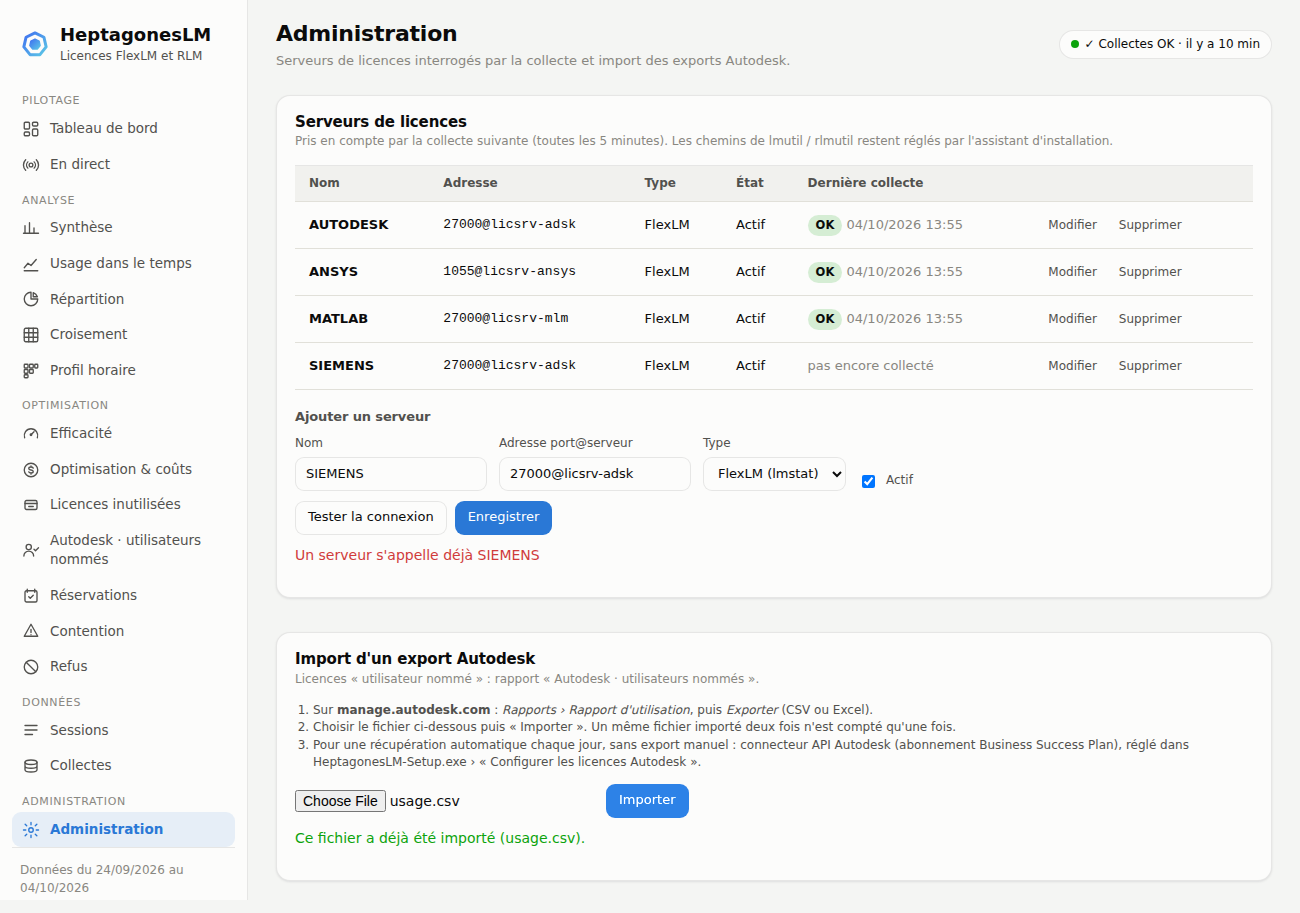
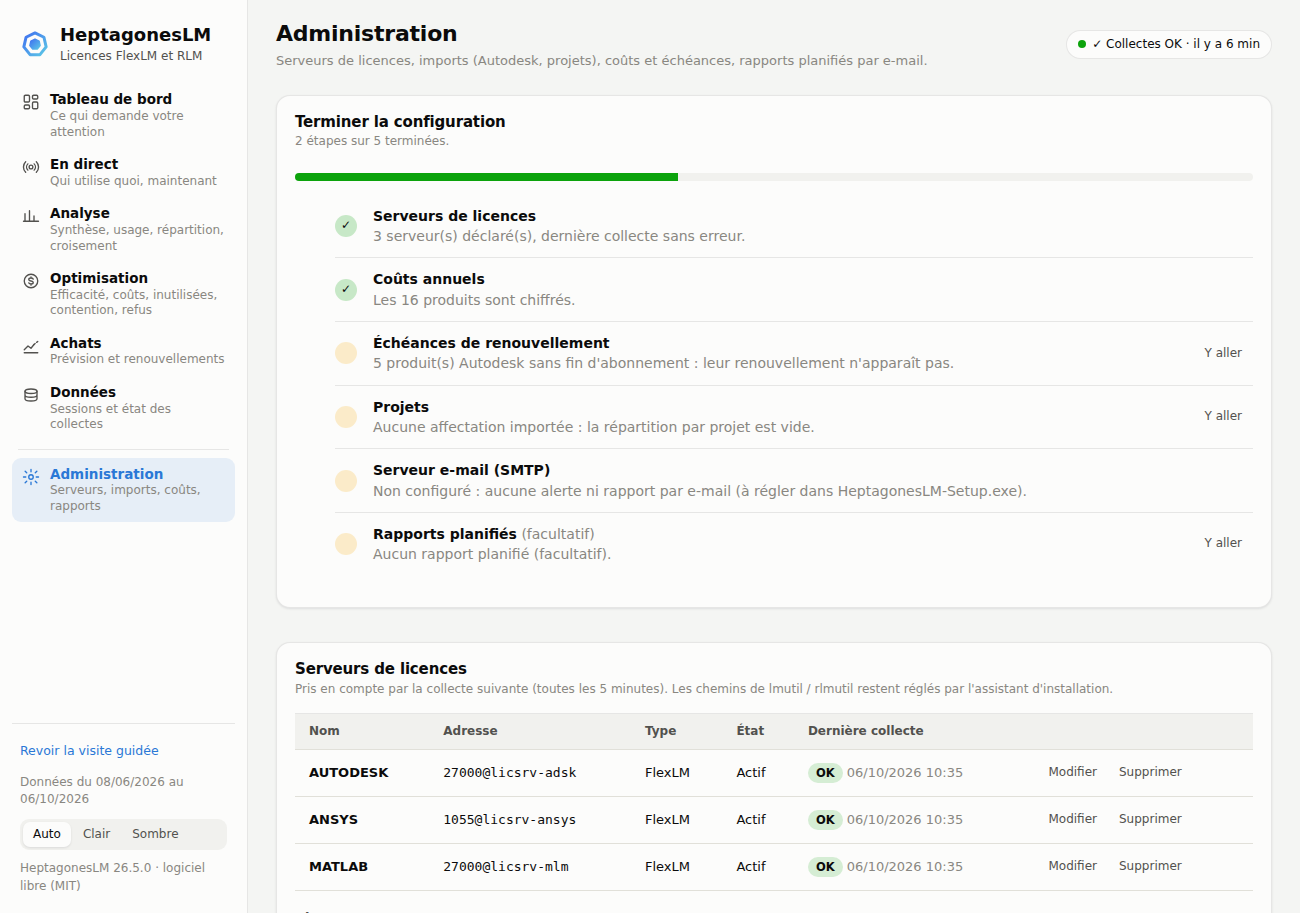
Documentation 26.5 : README, architecture, installation, plan de test ; captures de l'interface mises à jour

diff --git a/README.md b/README.md
@@ -16,9 +16,10 @@ Une alternative gratuite à OpenLM pour la mesure et l'optimisation des licences
 
 HeptagonesLM interroge périodiquement vos serveurs de licences (`lmutil lmstat`,
 `rlmutil rlmstat`) et lit leurs logs, historise la consommation dans SQL Server, puis restitue **qui utilise
-quoi, quand, avec quel taux d'occupation et quels pics de contention**, dans une
-tableau de bord web et en exports Excel — avec alertes, vue en direct, efficacité des
-jetons, chiffrage des économies possibles et alertes immédiates par e-mail.
+quoi, quand, avec quel taux d'occupation et quels pics de contention**, dans un
+tableau de bord web et en exports Excel — avec vue en direct, efficacité des jetons,
+chiffrage des économies, prévision des besoins, préparation des renouvellements et
+alertes immédiates par e-mail ou ticket ITSM.
 
 ![Tableau de bord](docs/images/tableau-de-bord.png)
 
@@ -41,12 +42,14 @@ jetons, chiffrage des économies possibles et alertes immédiates par e-mail.
 |---|---|
 | **Collecte** | FlexLM : sondage `lmutil lmstat -a` (jetons émis/utilisés, checkouts en cours) et lecture incrémentale des logs debug (refus, sessions à la seconde). RLM : sondage `rlmutil rlmstat -a` (pools, jetons, utilisateurs, échéances). Aucun agent sur les postes clients. |
 | **Historisation** | SQL Server (ou SQLite pour les essais) : sessions, refus, sondages, agrégats horaires conservés sans limite, journal des collectes. |
+| **Prise en main** | Navigation en 6 rubriques avec onglets, accueil **« À traiter »** (pénuries, économies, échéances, chacune avec son bouton), **visite guidée** à la première connexion selon le rôle, aide intégrée (définition des termes au survol, pages vides expliquées), **liste de démarrage** de l'administrateur. |
 | **Tableau de bord** | Alertes (collecte en échec ou arrêtée, refus, licences qui expirent, saturation, sous-utilisation), 6 indicateurs clés comparés à la période précédente avec tendance, occupation, état en direct, top produits et utilisateurs, refus, profil horaire, serveurs et échéances. |
 | **En direct** | Jetons utilisés / disponibles par produit et qui les utilise, depuis quand, sur quel poste ; actualisé chaque minute. |
 | **Optimisation** | Efficacité des jetons (part du temps où au moins N jetons sont utilisés), nombre de jetons recommandé, coût annuel du parc, économies potentielles, refacturation par service et **par projet**, **licences inutilisées** (coût à résilier), **réservations** (utilisateurs nommés) et leur taux d'usage réel. |
 | **Achats** | **Prévision** du pic et des jetons nécessaires à 3, 6 et 12 mois (tendance, saisonnalité, fourchette à 90 %) et **rapport de renouvellement** : pour chaque échéance, usage réel, quantité à renouveler, économie ou budget chiffrés. |
 | **Autodesk nominatif** | Licences Autodesk « utilisateur nommé » (sans serveur de licences) : usage lu par l'API Autodesk (Business Success Plan) ou import des exports « Usage report » du portail Autodesk Account, licences inactives ou jamais utilisées à réaffecter, coût annuel récupérable. |
 | **Emprunts et sites** | Licences empruntées (utilisation hors ligne) signalées dans la vue En direct et les sessions ; site de chaque poste (règles sur le nom), filtre et répartition par site. |
+| **Administration web** | Pour les administrateurs : serveurs de licences (ajout, test en direct), import des exports Autodesk et des affectations par projet, coûts et échéances, rapports planifiés par e-mail ; configuration validée et sauvegardée avant chaque écriture. |
 | **Rapports** | 18 vues à la demande, filtres (période, serveurs, produits, utilisateurs, services), graphiques interactifs, mode clair / sombre, liens partageables. |
 | **Exports** | Chaque rapport en Excel (avec graphique), CSV (format Excel français) ou JSON ; classeur complet 8 onglets. |
 | **HeptagonesLM-Setup.exe** | **Seul fichier à télécharger.** Assistant d'installation graphique : prérequis et IIS installés automatiquement, tests de connexion, barre de progression, vérification finale ; mode silencieux. Il installe l'application (`HeptagonesLM.exe` : collecte, interface, rapports) dans `C:\HeptagonesLM`. Aucun Python requis ; rien à installer sur les postes utilisateurs (navigateur). |
@@ -91,22 +94,32 @@ jetons, chiffrage des économies possibles et alertes immédiates par e-mail.
 <td align="center"><em>Prévision : jetons nécessaires à 3, 6 et 12 mois</em></td>
 <td align="center"><em>Renouvellements : quantité à renouveler, économie chiffrée</em></td>
 </tr>
+<tr>
+<td><img src="docs/images/administration.png" alt="Administration et liste de démarrage"></td>
+<td><img src="docs/images/repartition-service.png" alt="Répartition par service"></td>
+</tr>
+<tr>
+<td align="center"><em>Administration : liste de démarrage et serveurs de licences</em></td>
+<td align="center"><em>Répartition et refacturation par service ou par projet</em></td>
+</tr>
 </table>
 
 ## Démarrage rapide
 
 ### Essayer sans rien installer (Windows)
 
-1. Télécharger **`HeptagonesLM-Setup.exe`** depuis la page [Releases](https://github.com/Valou94460/HEPTAGONES-LM/releases)
-   (ou, pour la dernière version de développement : onglet
-   [Actions](https://github.com/Valou94460/HEPTAGONES-LM/actions/workflows/ci.yml) › dernière exécution › artefact `HeptagonesLM-Setup`).
-2. Parcourir l'assistant **en simulation**, sans rien modifier sur le poste :
-   `HeptagonesLM-Setup.exe setup --simulate` (bandeau « Mode simulation » affiché).
+1. Télécharger **`HeptagonesLM-Setup.exe`** depuis la [dernière version publiée](https://github.com/Valou94460/HEPTAGONES-LM/releases/latest).
+2. Dans une invite de commandes, ouvrir l'**interface sur données fictives** (bandeau « Démonstration ») :
+   `HeptagonesLM-Setup.exe web --demo --open`
+3. Ou parcourir l'**assistant d'installation en simulation**, sans rien modifier sur le poste :
+   `HeptagonesLM-Setup.exe setup --simulate` (bandeau « Mode simulation »).
 
-L'interface sur données fictives (bandeau « Démonstration ») s'obtient avec Python, ci-dessous.
+Le Setup demande les droits administrateur à l'ouverture (il sert aussi à installer). Aucune de ces deux
+commandes n'installe quoi que ce soit.
 
-> Windows SmartScreen peut avertir au premier lancement (exécutable non signé) :
-> « Informations complémentaires » › « Exécuter quand même ».
+> Windows SmartScreen peut avertir au premier lancement (exécutable non encore signé) :
+> « Informations complémentaires » › « Exécuter quand même ». Pour vérifier le fichier :
+> `Get-FileHash HeptagonesLM-Setup.exe -Algorithm SHA256` doit correspondre à `SHA256SUMS`, publié avec la version.
 
 ### Construire HeptagonesLM-Setup.exe sur son PC (sans GitHub Actions)
 
@@ -227,32 +240,31 @@ Options globales : `-c heptagoneslm.yaml` (ou variable `HEPTAGONESLM_CONFIG`), `
 heptagoneslm -c heptagoneslm.yaml web --open
 ```
 
-Navigation par la barre latérale, en cinq groupes (plus *Administration* pour les administrateurs) :
+La barre latérale compte six rubriques (plus *Administration* pour les administrateurs) ; les vues
+d'une même rubrique sont des onglets :
 
-| Vue | Contenu |
+| Rubrique | Vues (onglets) |
 |---|---|
-| **Tableau de bord** | Page d'accueil : alertes, indicateurs clés cliquables (tendance, comparaison à la période précédente), taux d'occupation, état en direct, produits, utilisateurs, refus, profil horaire, serveurs et échéances |
-| **En direct** | Dernier sondage : jetons utilisés / libres par produit, utilisateurs connectés (poste, service, durée), file d'attente ; actualisation automatique |
-| Synthèse | Indicateurs clés, taux d'occupation par produit (moyen, au pic, heures ouvrées) |
-| Usage dans le temps | Pic / moyenne / taux par heure, jour, semaine ou mois |
-| Répartition | Heures par utilisateur, poste, service, produit, serveur, éditeur, site ou projet ; coût refacturé |
-| Croisement | Tableau croisé (utilisateur, poste, service ou projet) × produit |
-| Profil horaire | Carte de chaleur heure × jour de semaine |
-| Contention | Jours avec saturation des jetons et/ou refus |
-| Refus | Détail des refus (DENIED) issus des logs |
-| **Efficacité** | Part du temps ouvré où au moins N jetons sont utilisés ; jetons recommandés pour couvrir 95 % du temps, excédent, jetons jamais utilisés |
-| **Optimisation & coûts** | Coût annuel par produit, économies potentielles, coût par heure d'usage, recommandation (réduire, adapté, pénurie) |
-| **Prévision** | Pic prévu à 3, 6 et 12 mois par produit, jetons nécessaires, marge à 90 %, écart et impact budgétaire |
-| **Renouvellements** | Échéances des 12 mois à venir : usage réel, recommandé, besoin prévu, quantité à renouveler, économie ou budget |
-| Sessions | Données brutes filtrables |
-| Collectes | Journal et état de santé des collectes |
+| **Tableau de bord** | Accueil : bloc **« À traiter »** (pénuries, économies possibles, échéances proches), alertes, indicateurs clés cliquables comparés à la période précédente, taux d'occupation, état en direct, produits, utilisateurs, refus, profil horaire, serveurs et échéances |
+| **En direct** | Dernier sondage : jetons utilisés / libres par produit, utilisateurs connectés (poste, service, durée), emprunts ; actualisation chaque minute |
+| **Analyse** | Synthèse (taux d'occupation par produit) · Usage dans le temps (heure, jour, semaine, mois) · Répartition (utilisateur, poste, service, site, projet… et coût refacturé) · Croisement (× produit) · Profil horaire (heure × jour) |
+| **Optimisation** | Optimisation & coûts (économies potentielles, recommandation) · Efficacité (jetons nécessaires pour 95 % du temps ouvré) · Licences inutilisées · Autodesk utilisateurs nommés · Réservations · Contention · Refus |
+| **Achats** | Prévision (pic et jetons nécessaires à 3, 6 et 12 mois, impact budgétaire) · Renouvellements (échéances des 12 mois, quantité à renouveler, économie ou budget) |
+| **Données** | Sessions (données brutes filtrables) · Collectes (journal et état de santé) |
 
+- **Première connexion** : une visite guidée de 5 étapes, adaptée au rôle, présente l'interface ; elle
+  n'est proposée qu'une fois par utilisateur (mémorisé côté serveur) et se relance par « Revoir la visite
+  guidée ». L'administrateur dispose d'une **liste de démarrage** (serveurs, coûts, échéances, projets,
+  e-mail) dans *Administration* et sur le tableau de bord tant qu'elle n'est pas terminée.
+- **Aide intégrée** : un « ? » sur les en-têtes explique chaque terme (jeton, taux en heures ouvrées,
+  recommandé…) ; une page vide indique comment la remplir.
 - **Filtres** : période (7 j, 30 j, 90 j, mois, année… ou dates), serveurs, produits,
-  utilisateurs, services ; ils s'appliquent à toutes les vues.
+  utilisateurs, services, sites ; seuls ceux qui s'appliquent à la vue sont affichés.
   L'adresse de la page conserve les filtres : un lien partagé rouvre le même rapport.
 - **Exports** : bouton Excel / CSV / JSON sur chaque vue, avec les filtres appliqués ;
   « Rapport complet » produit le classeur 8 onglets.
-- **Sécurité** : lecture seule ; n'écoute que sur le poste local par défaut.
+- **Sécurité** : consultation en lecture seule ; seule la page *Administration* (administrateurs)
+  modifie la configuration. N'écoute que sur le poste local par défaut.
   Pour un accès réseau : **connexion avec les comptes Windows / AD** et HTTPS, voir
   [docs/AUTHENTIFICATION.md](docs/AUTHENTIFICATION.md).
 
@@ -413,7 +425,7 @@ automatiquement dans la sortie `lmstat` (alertes à 30 et 7 jours).
 | Tickets ITSM automatiques (ServiceNow, Jira, GLPI, webhook Teams / Slack) | ✅ | ✅ |
 | Rôles par service (groupes AD) | ✅ | ✅ |
 | Licences empruntées, réservations (named user), multi-sites, licences inutilisées | ✅ | ✅ |
-| Administration en ligne (configuration depuis l'interface) | ❌ | ✅ |
+| Administration en ligne (serveurs, imports, coûts, rapports planifiés) | ✅ | ✅ |
 | Libération de licences inactives (agent sur les postes) | ❌ | ✅ |
 | Licences SaaS / cloud, offre hébergée | ❌ | ✅ |
 | Autres gestionnaires (DSLS, Sentinel, LM-X… : plus de 70 chez OpenLM) | Extensible, à développer | ✅ |
@@ -430,6 +442,7 @@ Les écarts restants sont planifiés dans la [feuille de route](docs/ROADMAP.md)
 | [docs/ARCHITECTURE.md](docs/ARCHITECTURE.md) | Architecture, flux de collecte, schéma de base, ajout d'un gestionnaire (RLM…) |
 | [docs/AUTHENTIFICATION.md](docs/AUTHENTIFICATION.md) | Interface partagée : connexion AD (LDAPS), SSO via IIS, certificat HTTPS, service permanent |
 | [docs/SECURITE.md](docs/SECURITE.md) | Audit de sécurité, corrections, liste de contrôle de déploiement |
+| [SECURITY.md](SECURITY.md) | Signaler une vulnérabilité (signalement privé), versions maintenues |
 | [docs/PLAN_DE_TEST.md](docs/PLAN_DE_TEST.md) | Plan de test complet : automatisé, recette, validation sur serveurs réels |
 | [docs/ROADMAP.md](docs/ROADMAP.md) | **Feuille de route** : état réel face à OpenLM, lots 26.3 à 27.3 (ITSM, rôles, prévision, prise en main, langue, gestionnaires, agent poste, cloud) |
 | [docs/PLAN.md](docs/PLAN.md) | Plan d'implémentation (mise en service) |
@@ -441,16 +454,17 @@ Les écarts restants sont planifiés dans la [feuille de route](docs/ROADMAP.md)
 ```bash
 git clone https://github.com/Valou94460/HEPTAGONES-LM.git && cd HEPTAGONES-LM
 pip install -e ".[dev]"
-python -m pytest                     # ~90 tests, SQLite en mémoire, aucun serveur requis
+python -m pytest                     # ~380 tests, SQLite en mémoire, aucun serveur requis
 heptagoneslm web --demo --open             # interface sur données simulées
 ```
 
-La [CI](.github/workflows/ci.yml) exécute à chaque push : tests unitaires (Linux et
-Windows, Python 3.10 et 3.12), démonstration complète avec rapport Excel, test de
-l'interface et de la page de connexion dans un vrai navigateur (Playwright), démonstration contre un vrai
-SQL Server 2022, construction et vérification de `HeptagonesLM.exe`. Une étiquette
-`vX.Y.Z` publie automatiquement une [Release](https://github.com/Valou94460/HEPTAGONES-LM/releases)
-avec l'exécutable.
+La [CI](.github/workflows/ci.yml) exécute à chaque push : contrôle des secrets (gitleaks) sur tout
+l'historique, tests unitaires (Linux et Windows, Python 3.10 et 3.12), démonstration complète avec
+rapport Excel, test de l'interface, de la page de connexion et de l'assistant d'installation dans un vrai
+navigateur (Playwright), démonstration contre un vrai SQL Server 2022, construction de
+`HeptagonesLM-Setup.exe` et installation réelle sur Windows Server. Une étiquette `vX.Y.Z` publie
+automatiquement une [Release](https://github.com/Valou94460/HEPTAGONES-LM/releases) avec le Setup,
+le paquet zip et les empreintes SHA-256.
 
 ## Licence
 

diff --git a/docs/ARCHITECTURE.md b/docs/ARCHITECTURE.md
@@ -38,32 +38,44 @@ flowchart LR
 
 ```
 heptagoneslm/
-├── cli.py                  Point d'entrée (init-db, collect, report, import-log, purge…)
+├── cli.py                  Point d'entrée (init-db, collect, report, web, setup, import-*, purge…)
+├── launcher.py             HeptagonesLM.exe / HeptagonesLM-Setup.exe (double-clic → interface ou assistant)
 ├── config.py               Chargement/validation du YAML, mapping feature → produit
 ├── models.py               Modèle normalisé : ServerStatus, FeatureStatus, Checkout, LicenseEvent
 ├── service.py              Orchestration : exécute les collecteurs, reconstruit les sessions, écrit en base
 ├── collectors/
 │   ├── base.py             Interfaces StatusCollector / LogCollector + registre
-│   ├── flexlm/
-│   │   ├── lmstat.py       Exécution de lmutil lmstat + parser de la sortie
-│   │   └── logfile.py      Parser du log debug + lecture incrémentale (offset, rotation)
-│   └── rlm/
-│       └── rlmstat.py      Exécution de rlmutil rlmstat + parser (pools, utilisateurs, échéances)
-├── alerts.py               Alertes immédiates par e-mail (après chaque collecte, anti-répétition)
+│   ├── flexlm/             lmstat.py (lmutil lmstat + parser) · logfile.py (log debug incrémental)
+│   └── rlm/                rlmstat.py (rlmutil rlmstat : pools, utilisateurs, échéances)
+├── autodesk.py             Licences Autodesk nommées : import des exports « Usage report »
+├── autodesk_api.py         Connecteur API Autodesk (OAuth, requêtes d'usage, synchronisation)
+├── projects.py             Affectations utilisateur → projet (import CSV, règles)
+├── users.py                Import du référentiel utilisateurs (CSV AD/RH)
+├── alerts.py               Alertes immédiates (après chaque collecte, anti-répétition)
+├── itsm.py                 Tickets ServiceNow, Jira, GLPI, webhook (ouverture, complément, résolution)
+├── mailer.py               Rapports par e-mail (abonnements, rapports sur mesure)
+├── vault.py                Secrets chiffrés par Windows (DPAPI)
 ├── storage/
 │   ├── db.py               Connexion DB-API (pyodbc / sqlite3) et différences de dialecte
-│   ├── schema.py           Schéma unique → DDL SQL Server et SQLite, vues de reporting
-│   └── repository.py       Toutes les requêtes d'écriture
+│   ├── schema.py           Schéma unique → DDL SQL Server et SQLite, vues de reporting, migrations
+│   └── repository.py       Requêtes d'écriture
 ├── reporting/
 │   ├── dataset.py          Calcul des indicateurs (pur Python, testable)
-│   └── excel.py            Mise en forme du classeur (openpyxl)
+│   ├── excel.py            Mise en forme du classeur (openpyxl)
+│   └── sanitize.py         Neutralisation des formules dans les exports (CSV / Excel)
 ├── web/
-│   ├── api.py              Rapports à la demande + exports (Excel, CSV, JSON)
-│   ├── server.py           Serveur HTTP (bibliothèque standard), lecture seule
+│   ├── server.py           Serveur HTTP (bibliothèque standard) : rapports, exports, administration
+│   ├── api.py              Registre des rapports, filtres, exports (Excel, CSV, JSON)
+│   ├── insights.py         Tableau de bord, « À traiter », efficacité, optimisation, contention
+│   ├── forecast.py         Prévision à 3, 6 et 12 mois
+│   ├── renewal.py          Rapport de renouvellement
+│   ├── named.py            Autodesk nominatif dans toutes les rubriques
+│   ├── admin.py            Page Administration (serveurs, coûts, projets, rapports planifiés)
+│   ├── prefs.py            Préférences par utilisateur (visite guidée) et liste de démarrage
+│   ├── auth.py · roles.py · access.py   Connexion AD / SSO, rôles par service, test d'accès
 │   └── static/             Interface HTML/JS/CSS, graphiques SVG, sans CDN
-├── simulation/             Simulateur FlexLM, faux lmutil, `heptagoneslm demo`
-├── users.py                Import du référentiel utilisateurs (CSV AD/RH)
-└── launcher.py             Point d'entrée de HeptagonesLM.exe (double-clic → interface)
+├── setup/                  Assistant d'installation : contrôles, installation, IIS, vérification, recette, PV
+└── simulation/             Simulateur FlexLM, faux lmutil, démonstration
 ```
 
 Principes :
@@ -253,6 +265,19 @@ erDiagram
         nvarchar state_json
     }
 ```
+
+Tables complémentaires (créées et migrées automatiquement par `init-db`, version du schéma dans
+`schema_info`, actuellement **v10**) :
+
+| Table | Rôle |
+|---|---|
+| `report_delivery` | Envois de rapports par e-mail (un envoi par abonnement et par période) |
+| `alert_state` | État des alertes immédiates (anti-répétition, retour à la normale) |
+| `itsm_ticket` | Tickets ITSM ouverts par alerte (référence, état) |
+| `feature_reservation` | Réservations (utilisateurs nommés) lues dans les fichiers options |
+| `named_seat` · `named_import` · `named_usage_day` | Licences Autodesk nommées : état, imports, usage quotidien |
+| `user_project` | Affectations utilisateur → projet (refacturation par projet) |
+| `user_pref` | Préférences par utilisateur : visite guidée vue ou passée (26.5) |
 
 Choix de conception :
 

diff --git a/docs/INSTALLATION.md b/docs/INSTALLATION.md
@@ -190,7 +190,7 @@ hors du fichier). Codes retour : **0** succès, **1** échec, **2** installé av
 ## 6. Mettre à jour une installation existante
 
 Télécharger le nouveau `HeptagonesLM-Setup.exe` et le lancer sur le serveur. Sur la page d'accueil,
-l'assistant reconnaît l'installation et sa version. Le bouton **« Mettre à jour vers 26.3.x »** :
+l'assistant reconnaît l'installation et sa version. Le bouton **« Mettre à jour vers … »** (numéro de la version téléchargée) :
 
 1. **sauvegarde** `heptagoneslm.yaml`, les réponses de l'assistant, `web.config` et la base SQLite dans
    `<installation>\backup\<horodatage>\` (base SQL Server : sauvegarde par le DBA, le schéma n'évolue que
@@ -227,11 +227,16 @@ Sur la page d'accueil, **« Configurer les licences Autodesk »** ouvre l'étape
 API Autodesk). Seule la section `autodesk` de `heptagoneslm.yaml` est écrite. Le reste de l'installation
 est conservé et rien n'est ressaisi. Voir [AUTODESK_API.md](AUTODESK_API.md) § 2.
 
-### Administrer depuis l'interface web (26.3.3, 26.4)
+### Administrer depuis l'interface web (26.3.3 à 26.5)
 
 Les membres du **groupe AD des administrateurs** voient la rubrique **Administration** de l'interface. Ce
 groupe se déclare à l'étape *Interface web et IIS* de l'assistant, ou sur une installation existante via
 l'accueil du Setup › *Administrateurs de l'interface web*. On y trouve :
+
+- **Terminer la configuration** (26.5) : liste de démarrage en tête de page — serveurs de licences, coûts
+  annuels, échéances de renouvellement, projets, serveur e-mail, rapports planifiés (facultatif) — avec, pour
+  chaque étape restante, un bouton *Y aller*. Tant qu'elle n'est pas terminée, une carte « Mise en route »
+  la rappelle sur le tableau de bord des administrateurs ;
 
 - **Serveurs de licences** : liste avec l'état de la dernière collecte, ajout, modification, suppression
   et *Tester la connexion* (lmstat / rlmstat en direct). La collecte suivante prend en compte les
